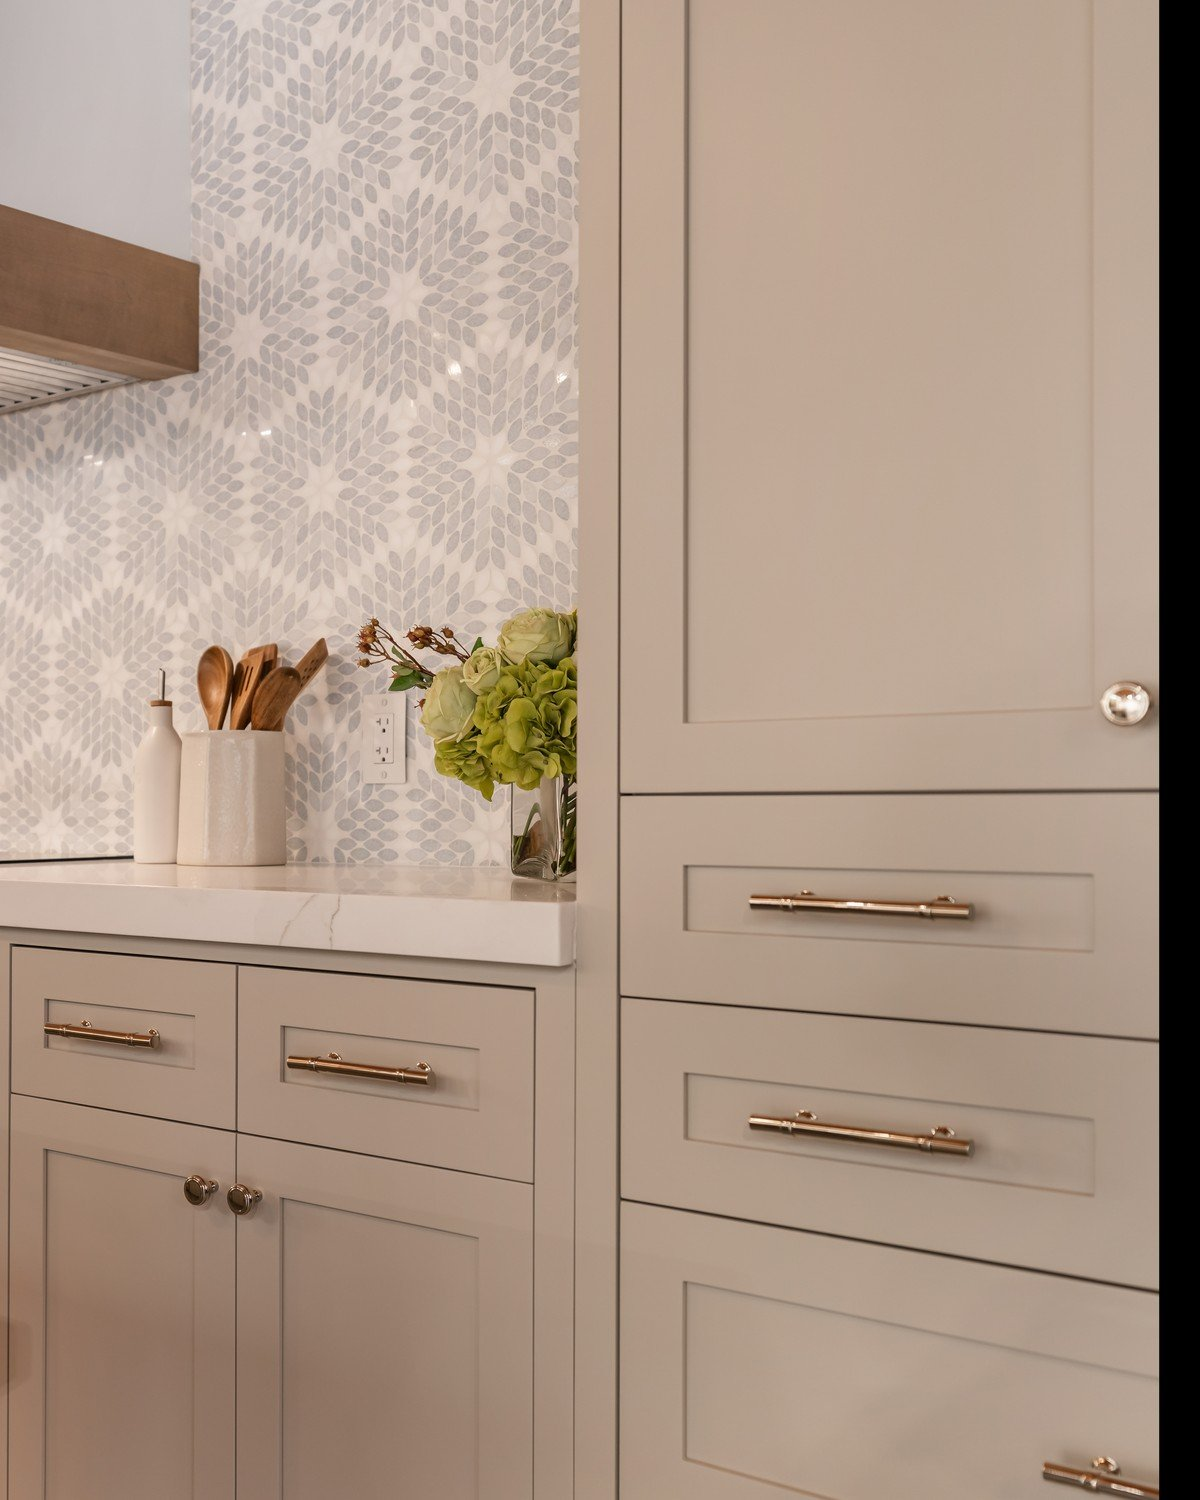
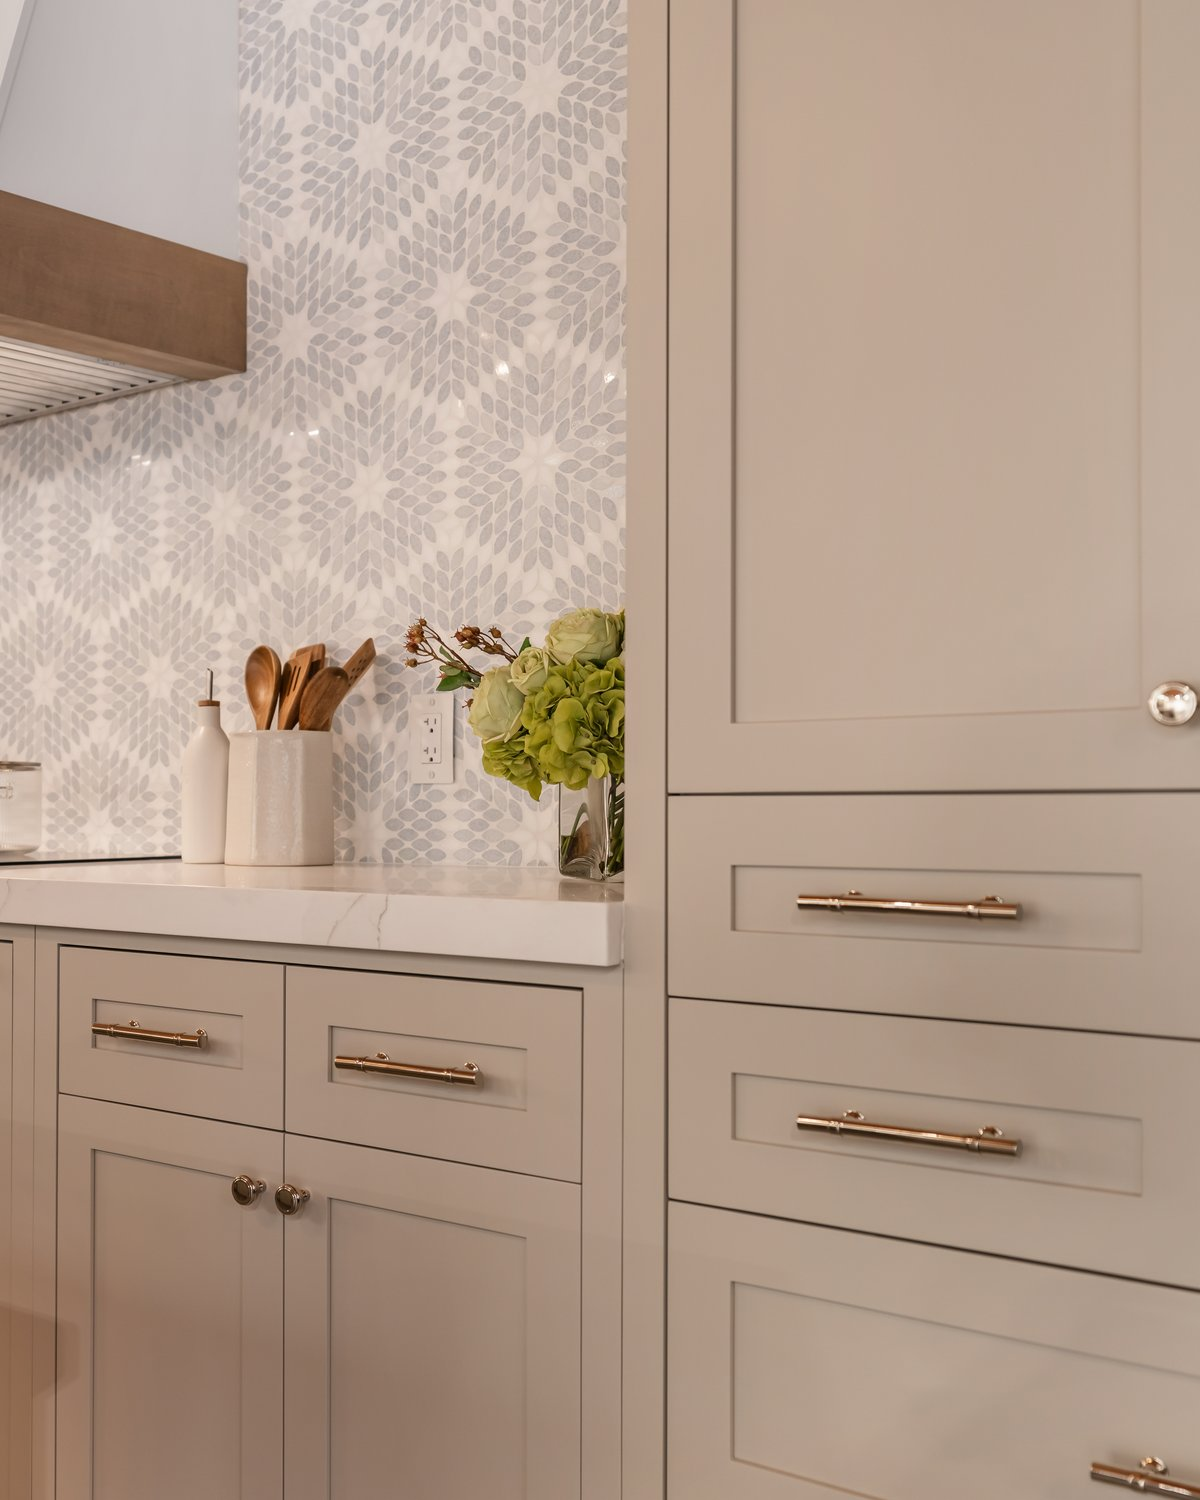
Stone scene: swap Artemis/Vittara lead; fix black edge on cabinetry photo
Vittara (dramatic dark veining) is now the big lead photo in the Stone
scene, Artemis moves into the small thumbnail row. New lead crop pulled
from the real Vittara slab photo (assets/img/slab/vittara.jpg).

Also: the cabinetry lead photo from the last commit had a black vertical
line on its right edge — the crop math went 118px past the source
image's actual width, so PIL padded the overflow with black. Re-cropped
within bounds.

diff --git a/index.html b/index.html
@@ -755,11 +755,11 @@
 
     <section class="scene scene-1" id="stone">
       <div class="scene-cluster reveal">
-        <figure class="lead"><img data-par="26" src="assets/img/material/scene-stone.jpg" alt="Artemis — full slab, veining up close"><figcaption>Artemis</figcaption></figure>
+        <figure class="lead"><img data-par="26" src="assets/img/material/scene-stone-vittara.jpg" alt="Vittara — full slab, veining up close"><figcaption>Vittara</figcaption></figure>
         <figure><img src="assets/img/material/mood/st-titanium.jpg" alt="Titanium granite" loading="lazy"><figcaption>Titanium</figcaption></figure>
         <figure><img src="assets/img/material/mood/st-stella-maestro.jpg" alt="Stella Maestro quartzite" loading="lazy"><figcaption>Stella Maestro</figcaption></figure>
         <figure><img src="assets/img/material/mood/st-cristallo-diamond-crystal.jpg" alt="Cristallo Diamond Crystal quartzite" loading="lazy"><figcaption>Cristallo Diamond</figcaption></figure>
-        <figure><img src="assets/img/material/mood/st-vittara.jpg" alt="Vittara quartzite" loading="lazy"><figcaption>Vittara</figcaption></figure>
+        <figure><img src="assets/img/material/scene-stone.jpg" alt="Artemis quartzite" loading="lazy"><figcaption>Artemis</figcaption></figure>
       </div>
       <div class="scene-cap reveal">
         <span class="label">01 — Stone</span>
